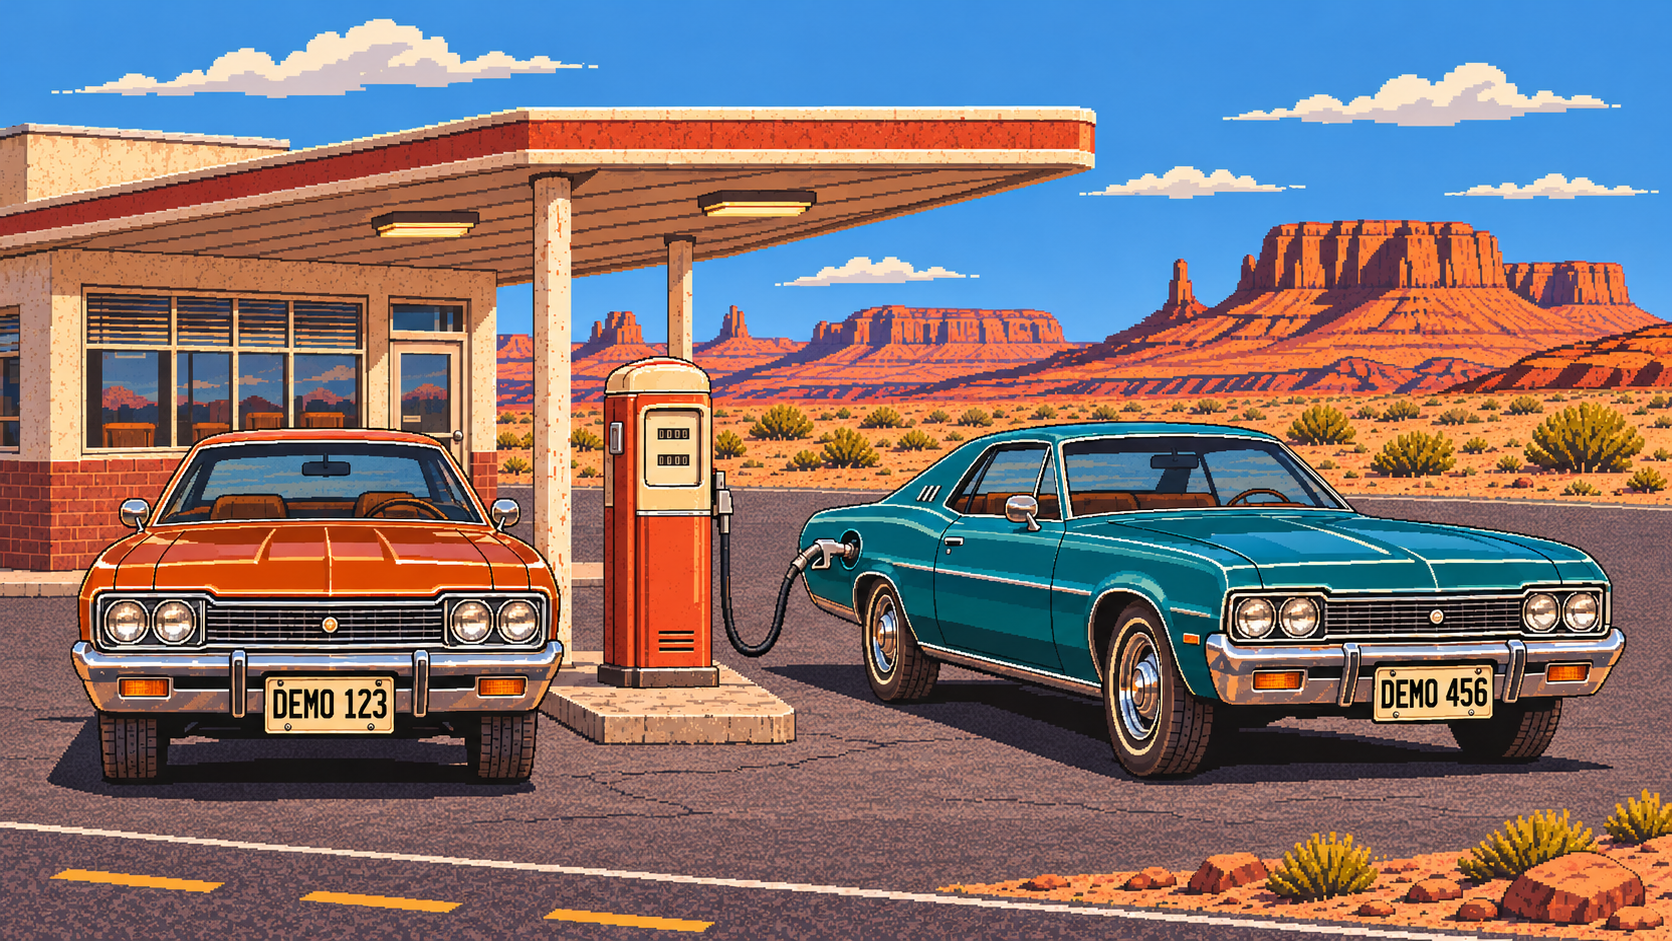
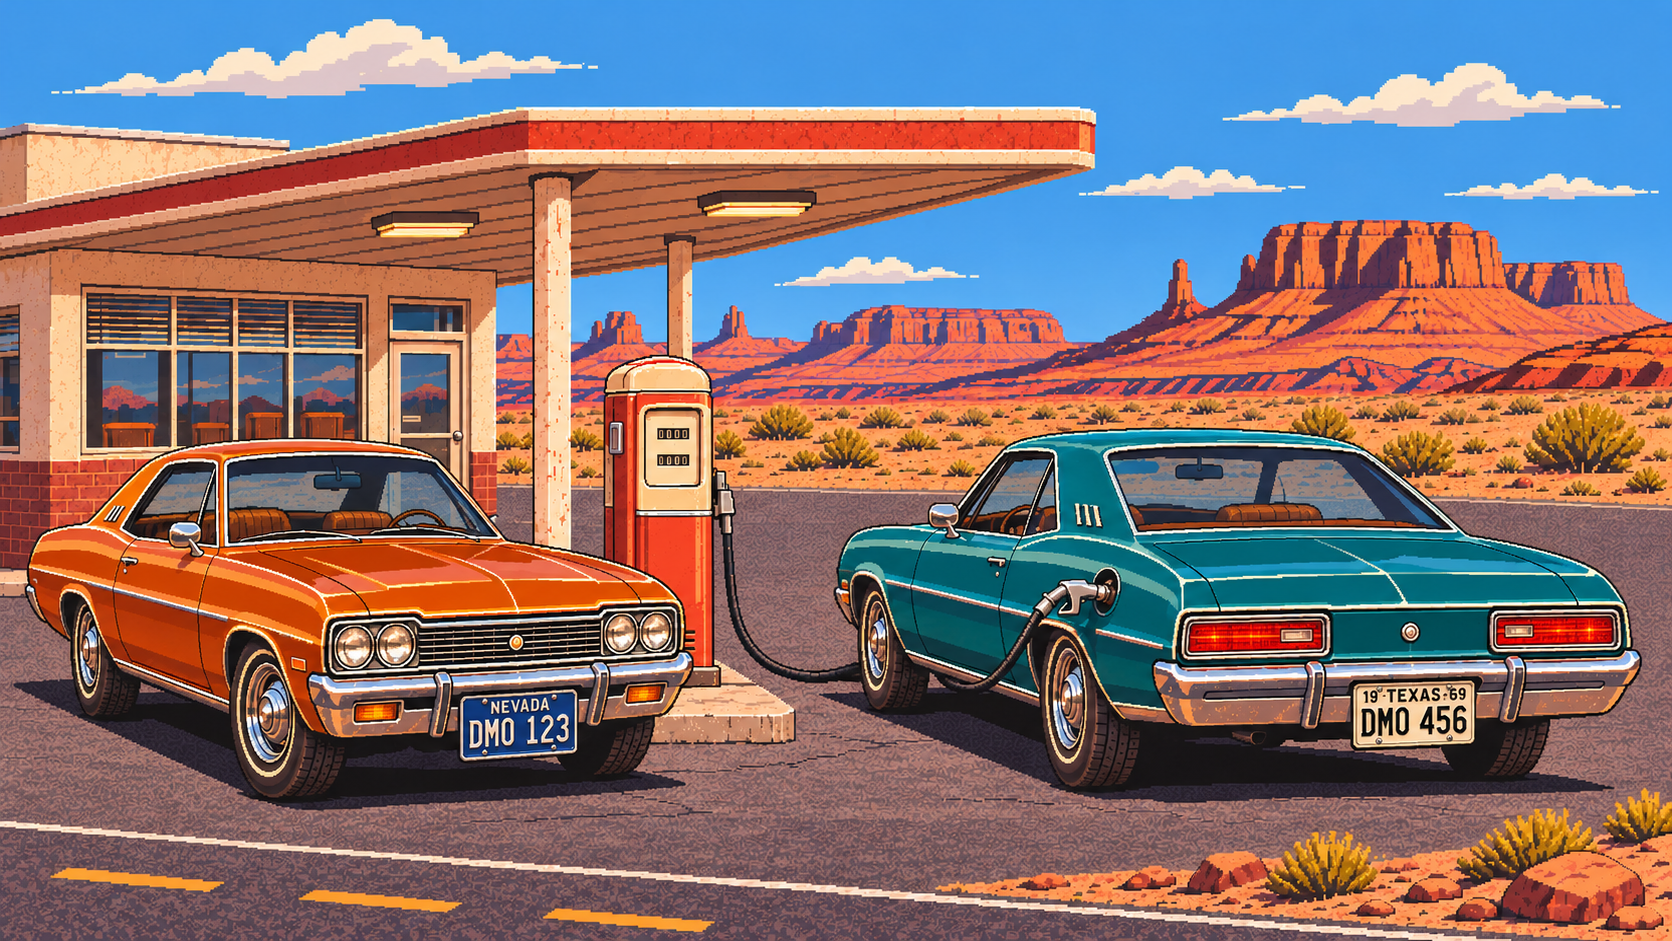
Update sample plates and use theme-specific UI accents

diff --git a/tests/browser/editor.spec.js b/tests/browser/editor.spec.js
@@ -35,6 +35,18 @@ async function draw(page) {
   await page.mouse.up();
   await expect(page.locator(".region-row")).toHaveCount(1);
 }
+async function expectSelectionColor(page, theme) {
+  // Fixture pixels have no red above 159 and no bright blue-dominant pixels.
+  // This checks the visible outline, including antialiased strokes, after redraw.
+  await expect.poll(() => page.getByTestId("editor-canvas").evaluate((canvas, mode) => {
+    const data = canvas.getContext("2d").getImageData(0, 0, canvas.width, canvas.height).data;
+    for (let i = 0; i < data.length; i += 4) {
+      const [r, g, b] = data.subarray(i, i + 3);
+      if (mode === "light" ? b > 160 && b > r * 1.7 && b > g * 1.3 : r > 180 && r > g * 1.5 && r > b * 1.5) return true;
+    }
+    return false;
+  }, theme)).toBe(true);
+}
 async function imageAction(page, name) {
   await page.locator(".file-menu > button").click();
   await page.getByRole("menuitem", { name, exact: true }).click();
@@ -68,8 +80,11 @@ test("English default, language and theme persistence", async ({ page }) => {
 test("rectangle, independent intensity, history, exports and preference changes", async ({
   page,
 }) => {
+  await page.emulateMedia({ colorScheme: "light" });
   await openImage(page);
   await draw(page);
+  await expect(page.locator(".tool.active")).toHaveCSS("color", "rgb(37, 99, 235)");
+  await expectSelectionColor(page, "light");
   await page.locator("#block").fill("32");
   await page.locator("#block").press("ArrowRight");
   await page.locator("#block").blur();
@@ -86,6 +101,8 @@ test("rectangle, independent intensity, history, exports and preference changes"
   expect([...result.data.slice(0, 4)]).toEqual([0, 0, 0, 255]);
   expect(result.data.equals(PNG.sync.read(fixture()).data)).toBe(false);
   await page.getByLabel("Toggle color theme").click();
+  await expect(page.locator(".tool.active")).toHaveCSS("color", "rgb(248, 113, 113)");
+  await expectSelectionColor(page, "dark");
   const second = await download(page);
   expect(PNG.sync.read(second.bytes).data.equals(result.data)).toBe(true);
   const jpg = await download(page, "jpeg");
@@ -225,6 +242,8 @@ test("header, attribution and previews remain available on mobile in both themes
     await expect(page.getByRole("link", { name: locale, exact: true })).toHaveAttribute("aria-current", "true");
     for (let i = 0; i < 2; i++) {
       await page.locator(".header-actions .icon-button").click();
+      const theme = await page.locator("html").getAttribute("data-theme");
+      await expect(page.locator(".tool.active")).toHaveCSS("color", theme === "dark" ? "rgb(248, 113, 113)" : "rgb(37, 99, 235)");
       await page.getByRole("button", { name: locale === "EN" ? "Settings and regions" : "Ajustes y regiones", exact: true }).click();
       await expect(page.locator(".block-preview")).toBeVisible();
       await expect(page.locator(".brush-preview")).toBeVisible();
@@ -259,7 +278,7 @@ test("sample car loads without edits, suggests the plate and exports edited pixe
   const scale = Math.min((box.width - 80) / original.width, (box.height - 80) / original.height, 1);
   const x = box.x + (box.width - original.width * scale) / 2;
   const y = box.y + (box.height - original.height * scale) / 2;
-  const plates = [[.157, .714, .237, .782], [.820, .704, .895, .77]];
+  const plates = [[.270, .731, .347, .814], [.805, .716, .884, .800]];
   for (const [i, [left, top, right, bottom]] of plates.entries()) {
     await page.mouse.move(x + original.width * left * scale, y + original.height * top * scale);
     await page.mouse.down();
@@ -334,7 +353,7 @@ test("light mode uses neutral fills and places privacy after a long region list"
   await page.getByRole("button", { name: "Brush", exact: true }).click();
   await expect(page.locator(".brush-preview span")).toHaveCSS("background-color", "rgb(229, 229, 229)");
   await expect(page.locator(".tool.active")).toHaveCSS("background-color", "rgb(229, 229, 229)");
-  await expect(page.locator(".tool.active")).toHaveCSS("border-top-color", "rgb(220, 38, 38)");
+  await expect(page.locator(".tool.active")).toHaveCSS("border-top-color", "rgb(37, 99, 235)");
   const canvas = await page.getByTestId("editor-canvas").boundingBox();
   for (let i = 0; i < 12; i++) {
     await page.mouse.move(canvas.x + canvas.width / 2 - 25, canvas.y + canvas.height / 2);

diff --git a/src/Editor.jsx b/src/Editor.jsx
@@ -132,7 +132,7 @@ export default function Editor({
     const op = shown.find((o) => o.id === selected) || draft?.op;
     if (op) {
       const b = bounds(op);
-      ctx.strokeStyle = theme === "dark" ? "#f87171" : "#dc2626";
+      ctx.strokeStyle = theme === "dark" ? "#f87171" : "#2563eb";
       ctx.lineWidth = 1.5 / scale;
       ctx.setLineDash([5 / scale, 4 / scale]);
       ctx.strokeRect(b.x, b.y, b.w, b.h);

diff --git a/src/style.css b/src/style.css
@@ -18,7 +18,7 @@
   --muted: #6c6c6c;
   --line: #e5e5e5;
   --hover: #ededed;
-  --accent: #dc2626;
+  --accent: #2563eb;
   --accent-contrast: #fff;
   --accent-soft: #e5e5e5;
   --brush-fill: #e5e5e5;
